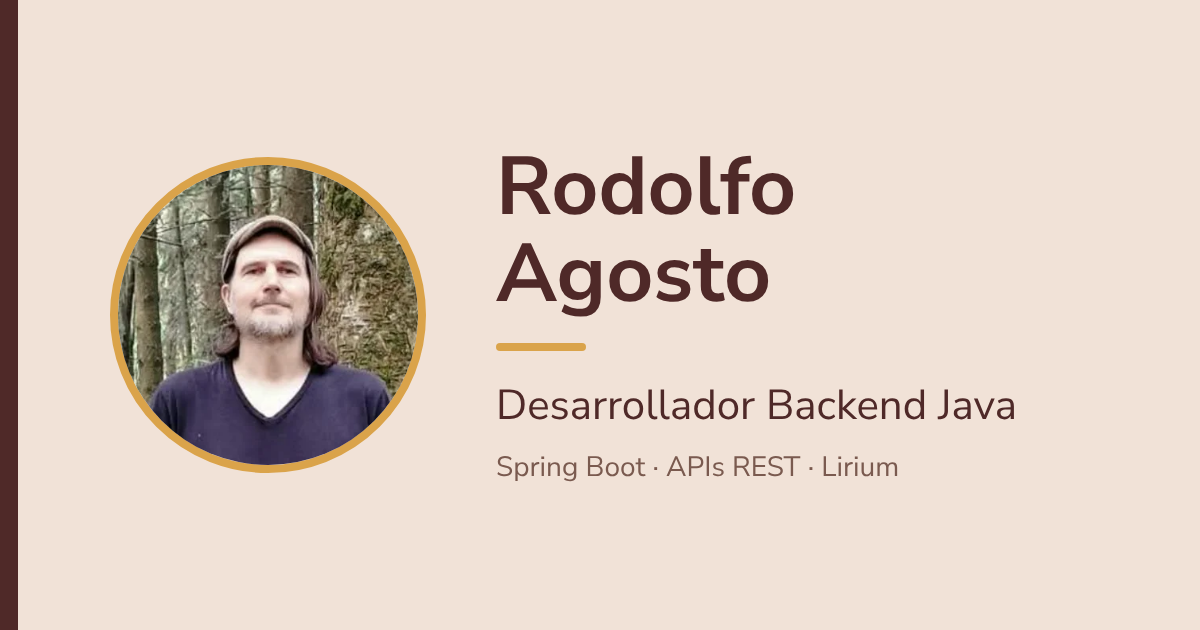
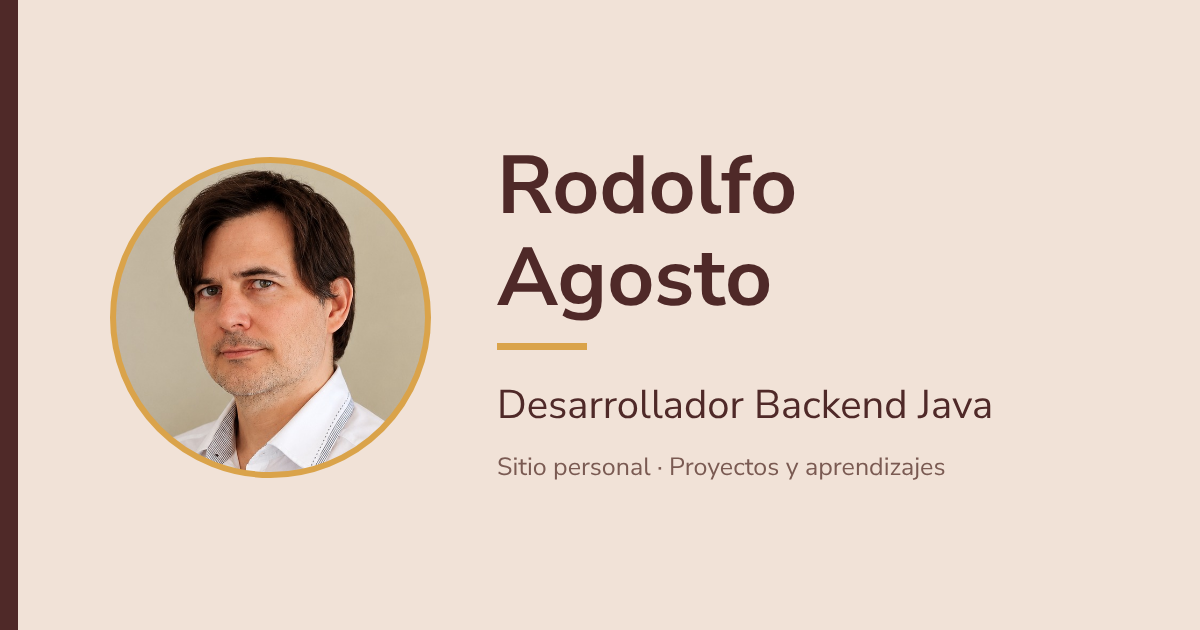
fix(seo): actualizar la vista previa, las descripciones y el título del sitio
Al compartir rodolfoagosto.com en LinkedIn o WhatsApp la tarjeta seguía mostrando la foto anterior y presentaba el sitio como si solo tratara de Lirium. Además, la barra lateral decía 'Ingeniero de Software', distinto del título que figura en el CV, en LinkedIn y en la portada.

- Reemplazar public/og-image.png por una versión con la foto actual y el subtítulo 'Sitio personal · Proyectos y aprendizajes'
- Reescribir las descripciones de index.html para que reflejen todo el sitio y no solo Lirium
- Cambiar 'Ingeniero de Software' por 'Ingeniero en Sistemas' en Sidebar.jsx

diff --git a/public/index.html b/public/index.html
@@ -10,9 +10,9 @@
     <meta name="theme-color" content="#4F2928" />
     <meta name="author" content="Rodolfo Agosto" />
     <meta name="keywords" content="Portafolio, rodolfo agosto, desarrollador, proyectos, react, java, spring, postgresql" />
-    <meta name="description" content="Ingeniero en Sistemas, desarrollador backend Java con Spring Boot. Proyecto destacado: Lirium Nutrition Planning, API REST con más de 840 pruebas y despliegue continuo." />
+    <meta name="description" content="Ingeniero en Sistemas, desarrollador backend Java con Spring Boot. Proyectos propios como Lirium Nutrition Planning, aprendizajes de libros técnicos y conceptos de ingeniería de software." />
     <meta property="og:title" content="Rodolfo Agosto | Desarrollador Backend Java" />
-    <meta property="og:description" content="Ingeniero en Sistemas y desarrollador backend Java con Spring Boot. Proyecto destacado: Lirium Nutrition Planning." />
+    <meta property="og:description" content="Ingeniero en Sistemas y desarrollador backend Java con Spring Boot. Proyectos propios, aprendizajes de libros técnicos y conceptos de ingeniería de software." />
     <meta property="og:image" content="https://rodolfoagosto.com/og-image.png" />
     <meta property="og:image:width" content="1200" />
     <meta property="og:image:height" content="630" />
@@ -21,7 +21,7 @@
     <meta property="og:locale" content="es_AR" />
     <meta name="twitter:card" content="summary_large_image" />
     <meta name="twitter:title" content="Rodolfo Agosto | Desarrollador Backend Java" />
-    <meta name="twitter:description" content="Ingeniero en Sistemas y desarrollador backend Java con Spring Boot. Proyecto destacado: Lirium Nutrition Planning." />
+    <meta name="twitter:description" content="Ingeniero en Sistemas y desarrollador backend Java con Spring Boot. Proyectos propios, aprendizajes de libros técnicos y conceptos de ingeniería de software." />
     <meta name="twitter:image" content="https://rodolfoagosto.com/og-image.png" />
 
     <link href="https://fonts.googleapis.com/css2?family=Nunito+Sans:wght@300;400;600;700&display=swap" rel="stylesheet" />

diff --git a/src/components/Sidebar.jsx b/src/components/Sidebar.jsx
@@ -105,7 +105,7 @@ export default function Sidebar({ setOpen }) {
         />
         <Box sx={{ px: 2 }}>
           <Typography variant="subtitle1" sx={{ lineHeight: 1.3 }}>
-            Ingeniero de Software
+            Ingeniero en Sistemas
           </Typography>
           <Typography variant="caption" sx={{ display: "block", mt: 0.5, color: "inherit", opacity: 0.75 }}>
             Backend · Java · Spring Boot · APIs REST
